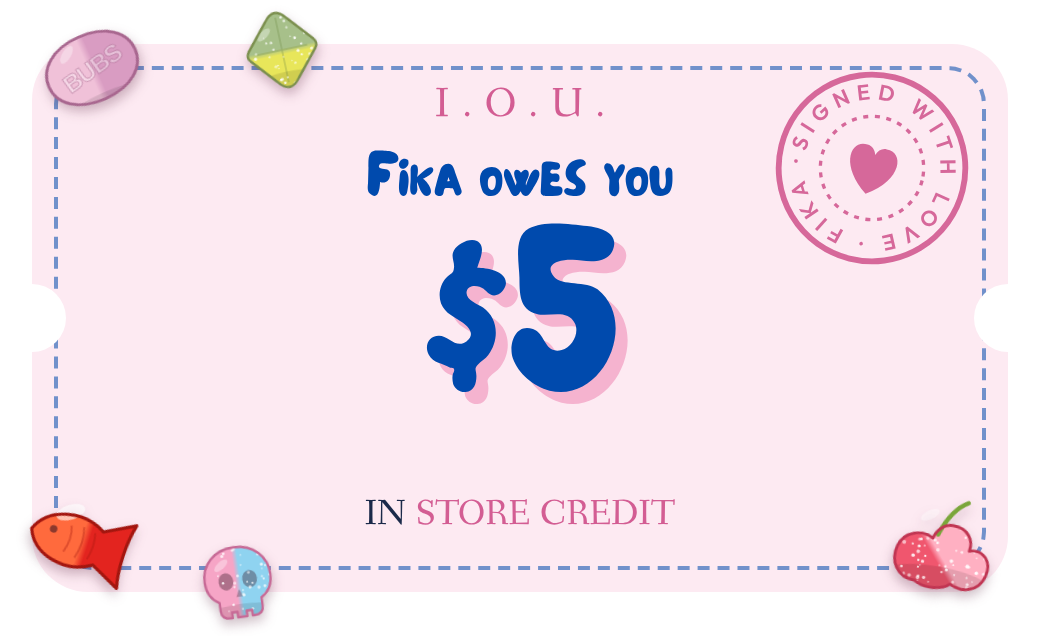
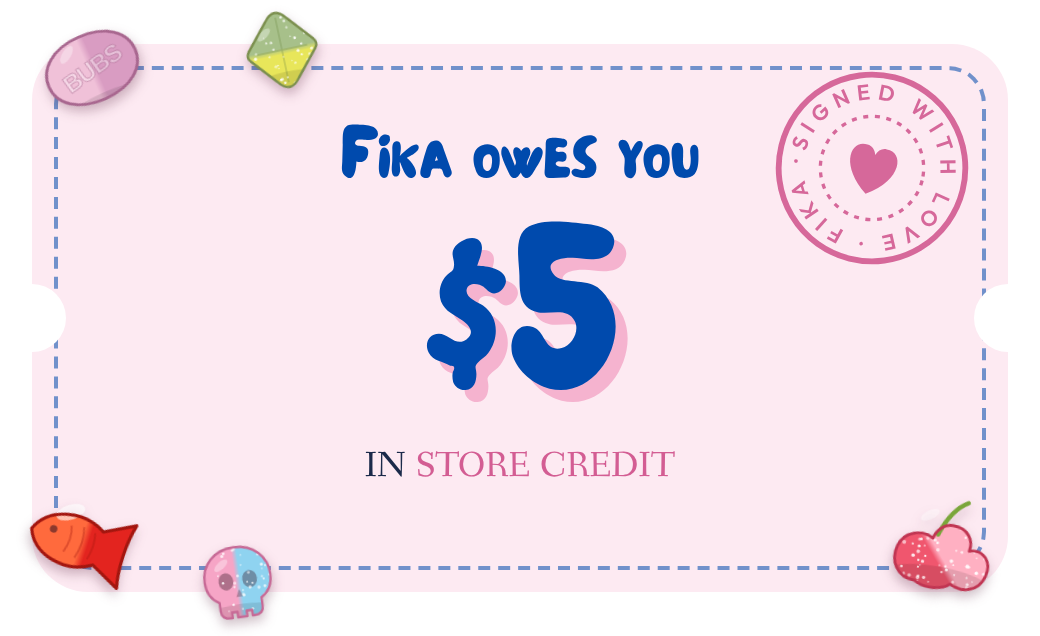
Win-back email 2 voucher: drop the I.O.U. line, rebalance the voucher
Claude-Session: https://claude.ai/code/session_0184Zg2Yh87DaUYkpDJjLSys

diff --git a/wordpress/email-assets/make-email-owe.js b/wordpress/email-assets/make-email-owe.js
@@ -26,8 +26,8 @@ const out = process.argv[2];
       .n1 { left: -17px; } .n2 { right: -17px; }
       .in { position: absolute; inset: 0; display: flex; flex-direction: column; align-items: center; justify-content: center; text-align: center; padding-bottom: 6px; }
       .iou { font-family: 'Fanwood Text', Georgia, serif; font-variant: small-caps; font-size: 21px; letter-spacing: .32em; color: #d35d93; margin-left: .32em; }
-      .owes { font-family: 'NF Le Petit Cochon', cursive; font-variant: small-caps; font-size: 34px; line-height: 1; color: #004aad; margin-top: 6px; }
-      .amt { font-family: 'NF Le Petit Cochon', cursive; font-size: 138px; line-height: .86; color: #004aad; text-shadow: 6px 6px 0 #f5b3cf; margin: 4px 0 6px; letter-spacing: -.01em; }
+      .owes { font-family: 'NF Le Petit Cochon', cursive; font-variant: small-caps; font-size: 40px; line-height: 1; color: #004aad; }
+      .amt { font-family: 'NF Le Petit Cochon', cursive; font-size: 138px; line-height: .86; color: #004aad; text-shadow: 6px 6px 0 #f5b3cf; margin: 10px 0 -18px; letter-spacing: -.01em; }
       .next { font-family: 'Fanwood Text', Georgia, serif; font-variant: small-caps; font-size: 25px; color: #1b2a4a; }
       .next b { color: #d35d93; font-weight: 400; }
       .stamp { position: absolute; right: 34px; top: 34px; width: 100px; height: 100px; transform: rotate(14deg); opacity: .92; }
@@ -42,7 +42,7 @@ const out = process.argv[2];
     // the voucher
     const hero = document.createElement('div'); hero.className = 'art'; hero.id = 'hero';
     hero.innerHTML = '<div class="tk"><i class="notch n1"></i><i class="notch n2"></i><div class="in">' +
-      '<div class="iou">I.O.U.</div><div class="owes">Fika owes you</div><div class="amt">$5</div><div class="next">in <b>store credit</b></div></div></div>' +
+      '<div class="owes">Fika owes you</div><div class="amt">$5</div><div class="next">in <b>store credit</b></div></div></div>' +
       // the stamp: a ring of words around a heart, in the shop's pink
       '<svg class="stamp" viewBox="0 0 120 120"><defs><path id="ring" d="M60,60 m-41,0 a41,41 0 1,1 82,0 a41,41 0 1,1 -82,0"/></defs>' +
       '<circle cx="60" cy="60" r="56" fill="none" stroke="#d35d93" stroke-width="3.5"/><circle cx="60" cy="60" r="31" fill="none" stroke="#d35d93" stroke-width="2" stroke-dasharray="3 4"/>' +
@@ -59,7 +59,7 @@ const out = process.argv[2];
     document.body.appendChild(kg);
   });
   await p.waitForTimeout(1500);
-  await (await p.$('#hero')).screenshot({ path: out + '/fika-email-owe-voucher2.png' }); // v2: "in store credit" (was "on your next kilogram")
+  await (await p.$('#hero')).screenshot({ path: out + '/fika-email-owe-voucher2.png' }); // v2: "in store credit" (was "on your next kilogram"); no "I.O.U." line (owner, 3 Nov)
   await p.evaluate(() => { document.documentElement.style.background = 'transparent'; document.body.style.background = 'transparent'; });
   await (await p.$('#kg')).screenshot({ path: out + '/fika-email-owe-kilo.png', omitBackground: true }); // see-through: it sits on the light-blue box
   await b.close();

diff --git a/wordpress/snippets/fika-winback.php b/wordpress/snippets/fika-winback.php
@@ -662,7 +662,7 @@ if ( ! function_exists( 'fika_wb_settings' ) ) {
 			fika_wb_small( $email );
 		$html = WC()->mailer()->wrap_message( 'We owe you ' . $owe, $body );
 		// the IOU voucher is the heading
-		$html = str_replace( '>We owe you ' . $owe . '</h1>', '><img src="' . esc_url( home_url( '/wp-content/uploads/2026/11/fika-email-owe-voucher2.png' ) ) . '" width="480" alt="I.O.U. Fika owes you ' . esc_attr( $owe ) . ' in store credit" class="fika-t" style="display:block;width:100%;max-width:480px;height:auto;margin:0 auto;border:0;"></h1>', $html );
+		$html = str_replace( '>We owe you ' . $owe . '</h1>', '><img src="' . esc_url( home_url( '/wp-content/uploads/2026/11/fika-email-owe-voucher2.png' ) ) . '" width="480" alt="Fika owes you ' . esc_attr( $owe ) . ' in store credit" class="fika-t" style="display:block;width:100%;max-width:480px;height:auto;margin:0 auto;border:0;"></h1>', $html );
 		$pre  = '<div class="fika-pre" style="display:none;font-size:1px;line-height:1px;max-height:0;max-width:0;opacity:0;overflow:hidden;mso-hide:all;">' . esc_html( ( $member ? 'Your store credit is waiting in your Fika Club account' : 'Join Fika Club for free and it is your store credit' ) . ', until ' . $until . '.' ) . str_repeat( '&#847;&zwnj;&nbsp;', 40 ) . '</div>';
 		$html = preg_replace( '/(<body\b[^>]*>)/i', '$1' . $pre, $html, 1 );
 		return array( ( $name ? $name . ', we owe you ' : 'We owe you ' ) . $owe . ' 🍬', $html );
